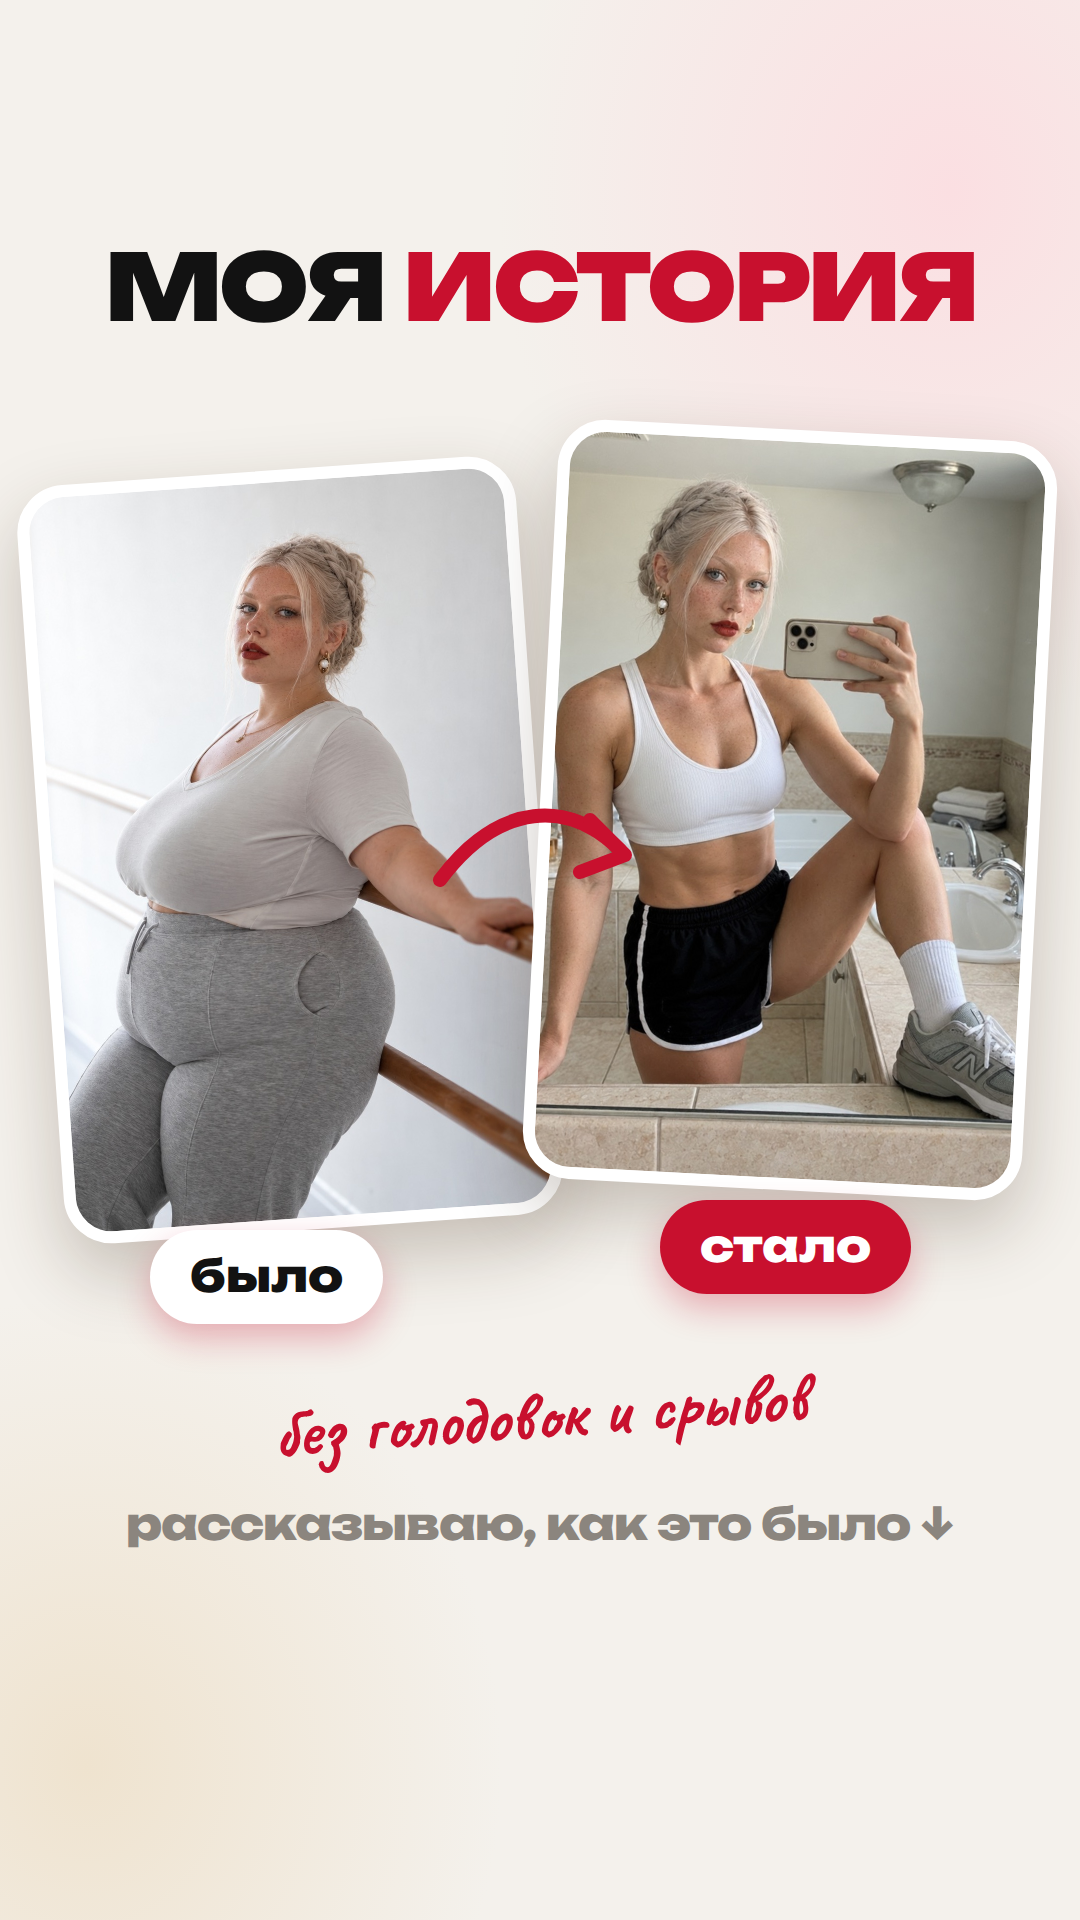
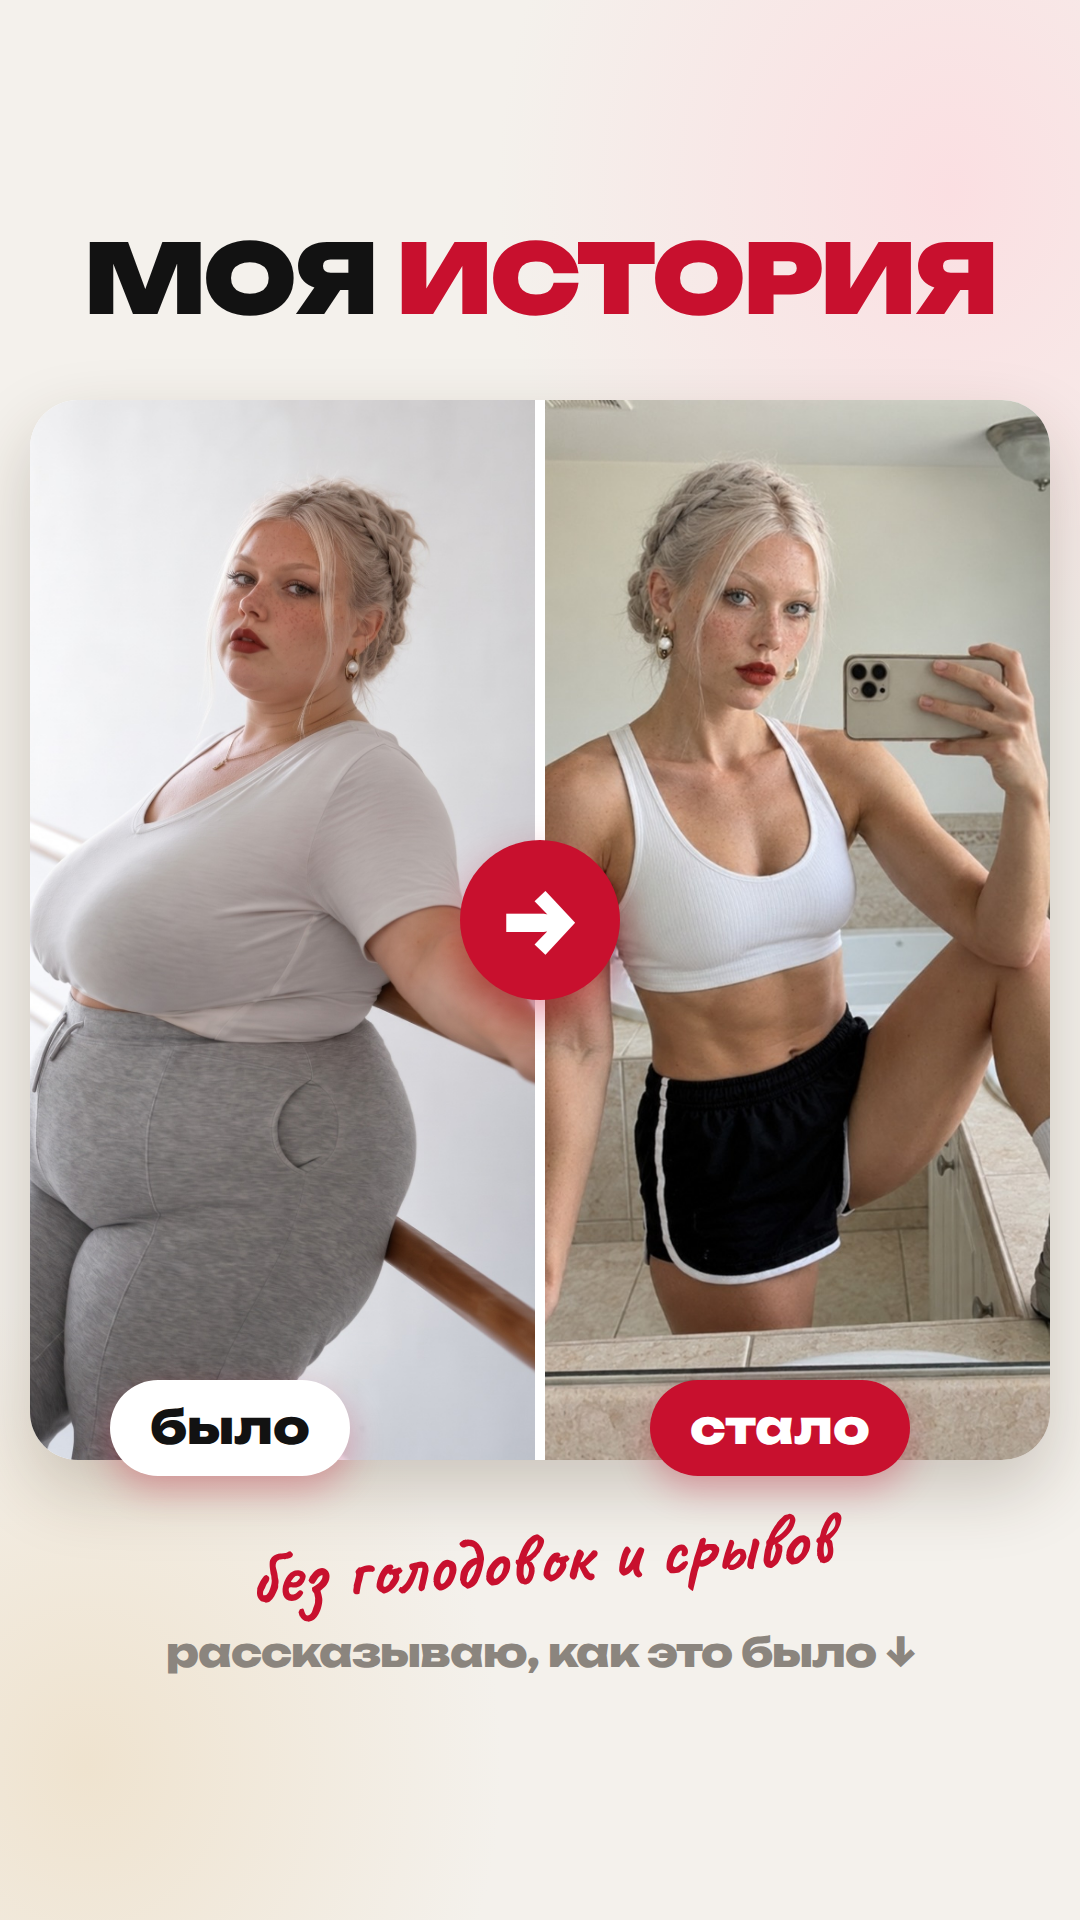
Сторис «Моя история»: сплит было/стало, новое фото, лица в кадре
Claude-Session: https://claude.ai/code/session_01Napg3wfFdsDVKQ2M6dwRyb

diff --git a/tools/stories/stories.html b/tools/stories/stories.html
@@ -100,14 +100,16 @@ body { background: #ddd; font-family: Man; color: var(--ink); }
   <img class="tst" src="../../assets/nika/toon/03_wink.png" style="right:-50px;top:1130px;width:380px;rotate:8deg">
   <div class="row" style="top:1580px"><div class="tag dark" style="font-size:34px">фитнес · питание · без голодовок</div></div>
 </div><div class="st " data-name="start_2">
-  <div class="row" style="top:240px"><div class="h1" style="font-size:92px">МОЯ <em>ИСТОРИЯ</em></div></div>
-  <div class="photo" style="left:40px;top:470px;width:500px;height:760px;rotate:-4deg"><img src="../../assets/nika/photo_before.jpg" style="object-position:40% 25%"><div class="ph-tag"></div></div>
-  <div class="photo" style="left:540px;top:430px;width:500px;height:760px;rotate:3deg"><img src="../../assets/nika/photo_after.jpg" style="object-position:40% 25%"></div>
-  <div class="ab" style="left:150px;top:1230px"><span class="tag white" style="font-size:44px">было</span></div>
-  <div class="ab" style="left:660px;top:1200px"><span class="tag" style="font-size:44px">стало</span></div>
-  <svg class="ul" style="left:430px;top:780px" width="220" height="140" viewBox="0 0 220 140"><path d="M10 100 C70 20 140 20 190 70" stroke="#c8102e" stroke-width="14" fill="none" stroke-linecap="round"/><path d="M160 40 L195 75 L150 92" stroke="#c8102e" stroke-width="14" fill="none" stroke-linecap="round" stroke-linejoin="round"/></svg>
-  <div class="row" style="top:1380px"><div class="hand" style="rotate:-4deg">без голодовок и срывов</div></div>
-  <div class="row" style="top:1500px"><div class="h2" style="font-size:44px;color:var(--muted)">рассказываю, как это было ↓</div></div>
+  <div class="row" style="top:230px"><div class="h1" style="font-size:96px">МОЯ <em>ИСТОРИЯ</em></div></div>
+  <div class="ab" style="left:30px;top:400px;width:1020px;height:1060px;border-radius:48px;overflow:hidden;box-shadow:0 30px 70px rgba(60,40,20,.22);background:#fff">
+    <div class="ab" style="left:0;top:0;width:505px;height:1060px;overflow:hidden"><img src="../../assets/nika/photo_before.jpg" style="width:100%;height:100%;object-fit:cover;object-position:46% 12%"></div>
+    <div class="ab" style="left:515px;top:0;width:505px;height:1060px;overflow:hidden"><img src="../../assets/nika/photo_after.jpg" style="width:100%;height:100%;object-fit:cover;object-position:26% 8%"></div>
+  </div>
+  <div class="ab" style="left:110px;top:1380px"><span class="tag white" style="font-size:46px">было</span></div>
+  <div class="ab" style="left:650px;top:1380px"><span class="tag" style="font-size:46px">стало</span></div>
+  <div class="ab" style="left:460px;top:840px;width:160px;height:160px;border-radius:50%;background:var(--red);box-shadow:0 18px 40px rgba(200,16,46,.4);display:flex;align-items:center;justify-content:center;font:900 86px/1 Unb;color:#fff">→</div>
+  <div class="row" style="top:1520px"><div class="hand" style="rotate:-4deg;font-size:76px">без голодовок и срывов</div></div>
+  <div class="row" style="top:1630px"><div class="h2" style="font-size:40px;color:var(--muted)">рассказываю, как это было ↓</div></div>
 </div><div class="st " data-name="start_3">
   <div class="row" style="top:250px"><div class="h1" style="font-size:84px">ЧТО Я <em>ПРОБОВАЛА</em></div></div>
   <div class="row" style="top:440px"><div class="notes">

diff --git a/tools/stories/build_stories.py b/tools/stories/build_stories.py
@@ -100,14 +100,16 @@ S.append(st(f'''
   <div class="row" style="top:1580px"><div class="tag dark" style="font-size:34px">фитнес · питание · без голодовок</div></div>
 ''', name='start_1'))
 S.append(st(f'''
-  <div class="row" style="top:240px"><div class="h1" style="font-size:92px">МОЯ <em>ИСТОРИЯ</em></div></div>
-  <div class="photo" style="left:40px;top:470px;width:500px;height:760px;rotate:-4deg"><img src="{A('photo_before.jpg')}" style="object-position:40% 25%"><div class="ph-tag"></div></div>
-  <div class="photo" style="left:540px;top:430px;width:500px;height:760px;rotate:3deg"><img src="{A('photo_after.jpg')}" style="object-position:40% 25%"></div>
-  <div class="ab" style="left:150px;top:1230px"><span class="tag white" style="font-size:44px">было</span></div>
-  <div class="ab" style="left:660px;top:1200px"><span class="tag" style="font-size:44px">стало</span></div>
-  <svg class="ul" style="left:430px;top:780px" width="220" height="140" viewBox="0 0 220 140"><path d="M10 100 C70 20 140 20 190 70" stroke="#c8102e" stroke-width="14" fill="none" stroke-linecap="round"/><path d="M160 40 L195 75 L150 92" stroke="#c8102e" stroke-width="14" fill="none" stroke-linecap="round" stroke-linejoin="round"/></svg>
-  <div class="row" style="top:1380px"><div class="hand" style="rotate:-4deg">без голодовок и срывов</div></div>
-  <div class="row" style="top:1500px"><div class="h2" style="font-size:44px;color:var(--muted)">рассказываю, как это было ↓</div></div>
+  <div class="row" style="top:230px"><div class="h1" style="font-size:96px">МОЯ <em>ИСТОРИЯ</em></div></div>
+  <div class="ab" style="left:30px;top:400px;width:1020px;height:1060px;border-radius:48px;overflow:hidden;box-shadow:0 30px 70px rgba(60,40,20,.22);background:#fff">
+    <div class="ab" style="left:0;top:0;width:505px;height:1060px;overflow:hidden"><img src="{A('photo_before.jpg')}" style="width:100%;height:100%;object-fit:cover;object-position:46% 12%"></div>
+    <div class="ab" style="left:515px;top:0;width:505px;height:1060px;overflow:hidden"><img src="{A('photo_after.jpg')}" style="width:100%;height:100%;object-fit:cover;object-position:26% 8%"></div>
+  </div>
+  <div class="ab" style="left:110px;top:1380px"><span class="tag white" style="font-size:46px">было</span></div>
+  <div class="ab" style="left:650px;top:1380px"><span class="tag" style="font-size:46px">стало</span></div>
+  <div class="ab" style="left:460px;top:840px;width:160px;height:160px;border-radius:50%;background:var(--red);box-shadow:0 18px 40px rgba(200,16,46,.4);display:flex;align-items:center;justify-content:center;font:900 86px/1 Unb;color:#fff">→</div>
+  <div class="row" style="top:1520px"><div class="hand" style="rotate:-4deg;font-size:76px">без голодовок и срывов</div></div>
+  <div class="row" style="top:1630px"><div class="h2" style="font-size:40px;color:var(--muted)">рассказываю, как это было ↓</div></div>
 ''', name='start_2'))
 S.append(st(f'''
   <div class="row" style="top:250px"><div class="h1" style="font-size:84px">ЧТО Я <em>ПРОБОВАЛА</em></div></div>
